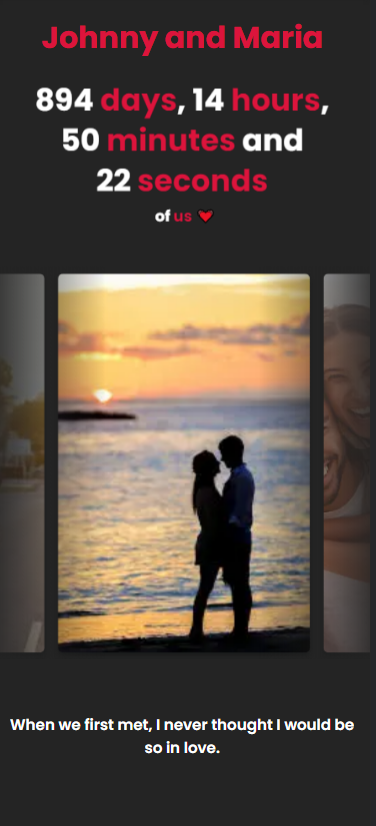
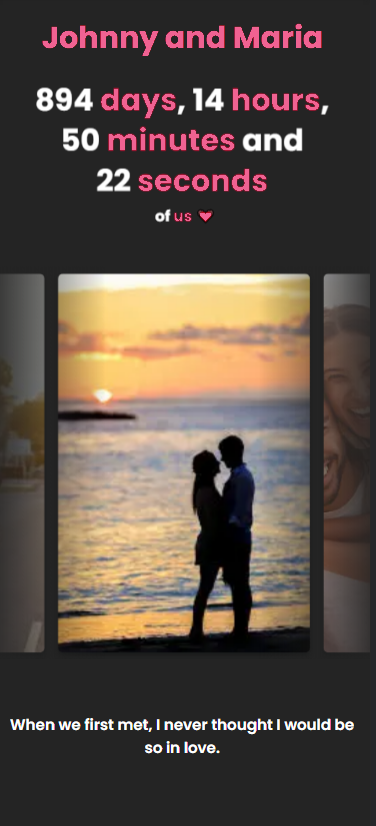
feat: Changes to the theme of the page, CTAs and subscribe page structure

diff --git a/src/app/(components)/HowItWorks/index.tsx b/src/app/(components)/HowItWorks/index.tsx
@@ -19,7 +19,7 @@ export function LandingPageHowItWorks() {
 					>
 						<ShinyBorder
 							className="w-full h-full text-white rounded-lg shadow-lg shadow-gray-800"
-							color={['#A07CFE', '#FE8FB5', '#FFBE7B']}
+							color={['#F48FB1', '#F06292', '#E682AB']}
 						>
 							<div className="w-full h-full flex flex-col items-center gap-4 p-4 pb-0 bg-gradient-to-b from-gray-500 to-gray-600 rounded-lg">
 								<h3 className="text-white text-center text-3xl font-bold capitalize">
@@ -43,7 +43,7 @@ export function LandingPageHowItWorks() {
 					>
 						<ShinyBorder
 							className="w-full h-full text-white rounded-lg shadow-lg shadow-gray-800"
-							color={['#A07CFE', '#FE8FB5', '#FFBE7B']}
+							color={['#F48FB1', '#F06292', '#E682AB']}
 						>
 							<div className="w-full h-full flex flex-col items-center gap-4 p-4 bg-gradient-to-b from-gray-500 to-gray-600 rounded-lg">
 								<h3 className="text-white text-center text-3xl font-bold capitalize">
@@ -67,7 +67,7 @@ export function LandingPageHowItWorks() {
 					>
 						<ShinyBorder
 							className="w-full h-full text-white rounded-lg shadow-lg shadow-gray-800"
-							color={['#A07CFE', '#FE8FB5', '#FFBE7B']}
+							color={['#F48FB1', '#F06292', '#E682AB']}
 						>
 							<div className="w-full h-full flex flex-col items-center gap-4 p-4 pb-0 bg-gradient-to-b from-gray-500 to-gray-600 rounded-lg">
 								<h3 className="text-white text-center text-3xl font-bold capitalize">
@@ -92,7 +92,7 @@ export function LandingPageHowItWorks() {
 					>
 						<ShinyBorder
 							className="w-full h-full text-white rounded-lg shadow-lg shadow-gray-800"
-							color={['#A07CFE', '#FE8FB5', '#FFBE7B']}
+							color={['#F48FB1', '#F06292', '#E682AB']}
 						>
 							<div className="relative w-full h-full flex flex-col items-center gap-4 p-4 bg-gradient-to-b from-gray-500 to-gray-600 rounded-lg">
 								<h3 className="text-white text-center text-3xl font-bold capitalize">

diff --git a/src/app/subscribe/(components)/form/index.tsx b/src/app/subscribe/(components)/form/index.tsx
@@ -91,7 +91,7 @@ export function SubscribeForm({ plan }: ISubscribeFormProps) {
 	return (
 		<FormProvider {...useFormReturn}>
 			<form
-				className="w-full flex flex-col gap-10 pb-4"
+				className="w-full flex flex-col gap-10 max-xl:gap-4 pb-4 -mt-4"
 				onSubmit={handleSubmit(handleOnSubmit)}
 			>
 				<SubscribeFormMainInfo plan={plan} />
@@ -112,23 +112,23 @@ export function SubscribeForm({ plan }: ISubscribeFormProps) {
 
 				{planIsLoveful && <SubscribeFormMilestones />}
 
-				<Button
+				<SubscribePageCouplePreview plan={plan} {...data} />
+
+				<button
 					type="submit"
-					className="mt-4 border-none bg-red-300 hover:bg-red-400 transition-all"
+					className="w-full xl:min-h-14 text-center text-lg rounded-md font-bold border-none p-4 transition-all capitalize text-white bg-red-200 shadow-glow shadow-red-200/80 hover:bg-red-400 disabled:opacity-50 disabled:shadow-none' lg:max-w-[33%]"
 					disabled={isSubmitting}
 				>
 					{isSubmitting ? (
-						<span className="flex items-center gap-4">
-							<Loading />
-							Creating your Loveloom...
+						<span className="w-full flex items-center justify-center text-lg gap-4">
+							<Loading className="w-fit" />
+							Creating your love page...
 						</span>
 					) : (
-						'Create your Loveloom'
+						'Create your love page'
 					)}
-				</Button>
+				</button>
 			</form>
-
-			<SubscribePageCouplePreview plan={plan} {...data} />
 		</FormProvider>
 	);
 }

diff --git a/src/app/(components)/Banner/index.tsx b/src/app/(components)/Banner/index.tsx
@@ -30,7 +30,7 @@ export async function LandingPageBanner() {
 			<div className="flex flex-col items-center mx-auto gap-8 xl:gap-16">
 				<BlurFade delay={0.3}>
 					<h2 className="w-full text-8xl max-xl:text-6xl max-2xl:text-7xl leading-5 text-center 2xl:text-start drop-shadow-md 2xl:mb-12">
-						<span className="max-2xl:block bg-clip-text text-transparent font-bold bg-gradient-to-b from-red-400 to-red-300 2xl:mb-14 pb-3">
+						<span className="max-2xl:block bg-clip-text text-transparent font-bold bg-gradient-to-b from-[#E682AB] to-[#FF7696] 2xl:mb-14 pb-3">
 							Few clicks, eternal gift
 						</span>
 					</h2>
@@ -52,7 +52,7 @@ export async function LandingPageBanner() {
 					<div className="w-full flex flex-col items-center gap-5">
 						<Link
 							href="/subscribe"
-							className="w-full xl:min-h-14 text-center text-xl rounded-md font-bold border-none px-6 py-5 transition-all text-white bg-red-200 shadow-glow shadow-red-200/80 hover:bg-red-400' lg:max-w-[33%]"
+							className="w-full xl:min-h-14 text-center text-xl rounded-md font-bold border-none px-6 py-5 transition-all capitalize text-white bg-red-200 shadow-glow shadow-red-200/80 hover:bg-red-400' lg:max-w-[33%]"
 						>
 							Design your page for free
 						</Link>

diff --git a/src/app/(components)/Pricing/index.tsx b/src/app/(components)/Pricing/index.tsx
@@ -85,7 +85,7 @@ export async function LandingPagePricing() {
 				<BlurFade className="w-full max-w-[400px]" delay={0.5} inView>
 					<ShinyBorder
 						className="w-full	 text-white rounded-lg shadow-lg shadow-gray-800"
-						color={['#A07CFE', '#FE8FB5', '#FFBE7B']}
+						color={['#F48FB1', '#F06292', '#E682AB']}
 					>
 						<ShinyText
 							className="w-max absolute top-0 left-1/2 -translate-y-1/2 -translate-x-1/2 rounded-full text-white font-bold uppercase bg-gray-500 shadow-md shadow-gray-800"
@@ -94,7 +94,7 @@ export async function LandingPagePricing() {
 							<ShinyBorder
 								className="text-sm text-white bg-transparent px-4 py-3"
 								borderRadius={9999}
-								color={['#A07CFE', '#FE8FB5', '#FFBE7B']}
+								color={['#F48FB1', '#F06292', '#E682AB']}
 							>
 								Popular
 							</ShinyBorder>
@@ -104,7 +104,7 @@ export async function LandingPagePricing() {
 							<ul className="flex flex-col gap-3">
 								<li className="flex gap-2 items-center">
 									<Check className="text-green-700 w-5 h-5 mb-1" />
-									<span>Lifetime access</span>
+									<span>Lasts forever</span>
 								</li>
 
 								<li className="flex gap-2 items-center">

diff --git a/src/app/subscribe/page.tsx b/src/app/subscribe/page.tsx
@@ -5,18 +5,18 @@ import { useState } from 'react';
 import { SubscribeForm } from './(components)/form';
 
 export default function Subscribe() {
-	const [plan, setPlan] = useState<'standard' | 'loveful'>('loveful');
+	const [plan, setPlan] = useState<'standard' | 'loveful'>('standard');
 
 	function handlePlanChange(plan: 'standard' | 'loveful') {
 		setPlan(plan);
 	}
 
 	return (
-		<main className="w-full flex flex-col items-center gap-36 max-xl:gap-12 pt-24 max-xl:pt-12 px-8 max-xl:px-2">
+		<main className="w-full flex flex-col items-center gap-36 max-xl:gap-12 pt-24 max-xl:pt-4 px-8 max-xl:px-2">
 			<div className="flex flex-col items-center gap-1 mx-auto">
 				<h1 className="text-2xl font-bold">Almost there!</h1>
 				<span className="text-sm font-light">
-					Fill out the form and get your own Loveloom!
+					Tell us your story to eternalize it!
 				</span>
 
 				<div className="flex justify-center gap-4 mt-4">

diff --git a/src/app/(components)/SecondCallToAction/index.tsx b/src/app/(components)/SecondCallToAction/index.tsx
@@ -38,7 +38,7 @@ export function LandingPageSecondCallToAction() {
 
 				<Link
 					href="/subscribe"
-					className="w-full flex justify-center items-center gap-3 xl:min-h-14 text-center text-xl rounded-md font-bold border-none px-4 py-5 transition-all text-white bg-red-200 shadow-glow shadow-red-200/80 hover:bg-red-400"
+					className="w-full flex justify-center items-center gap-3 xl:min-h-14 text-center text-lg rounded-md font-bold border-none px-4 py-5 transition-all text-white bg-red-200 shadow-glow shadow-red-200/80 hover:bg-red-400"
 				>
 					<HeartIcon className="fill-white" />
 					Design your page, free

diff --git a/src/app/(components)/Testimonials/index.tsx b/src/app/(components)/Testimonials/index.tsx
@@ -29,11 +29,7 @@ const reviews = [
 	},
 ];
 
-const couplePages = [
-	'/looveloom1.jpeg',
-	'/looveloom2.jpeg',
-	'/looveloom3.jpeg',
-];
+const couplePages = ['/looveloom1.png', '/looveloom2.png', '/looveloom3.png'];
 
 export function LandingPageTestimonials() {
 	return (
@@ -67,8 +63,8 @@ export function LandingPageTestimonials() {
 								src={couplePage}
 								className="rounded-md"
 								alt="Couple page"
-								width={400}
-								height={400}
+								width={300}
+								height={300}
 							/>
 						);
 					})}

diff --git a/tailwind.config.ts b/tailwind.config.ts
@@ -27,9 +27,12 @@ const config = {
 				red: {
 					'50': '#F8D1D5',
 					'100': '#F3B3B9',
-					'200': '#BE143C',
-					'300': '#DC143C',
-					'400': '#ff6464',
+					// '200': '#BE143C',
+					'200': '#E682AB',
+					// '300': '#DC143C',
+					'300': '#F06292',
+					// '400': '#ff6464',
+					'400': '#FF7696',
 					'500': '#B53D49',
 					'600': '#A22431',
 					'700': '#8E1C28',

diff --git a/src/app/subscribe/(components)/preview/index.tsx b/src/app/subscribe/(components)/preview/index.tsx
@@ -65,7 +65,7 @@ export function SubscribePageCouplePreview({
 	);
 
 	return (
-		<main className="w-full max-w-[450px] h-fit py-8 mx-4 bg-gray-800 rounded-md">
+		<main className="w-full max-w-[450px] h-fit py-8 bg-gray-800 rounded-md">
 			<span className="w-full block mx-auto mb-12 text-white font-bold text-sm text-center">
 				What your page will look like 👇
 			</span>

diff --git a/src/app/(components)/Pricing/card.tsx b/src/app/(components)/Pricing/card.tsx
@@ -45,7 +45,7 @@ export function PricingCard({
 				href="/subscribe"
 				className="w-full h-fit max-w-none xl:min-h-14 text-center xl:text-xl rounded-md font-bold border-none  px-8 py-4 text-white bg-red-200 shadow-glow shadow-red-200/80 uppercase mt-auto transition-all hover:opacity-70"
 			>
-				Get instant access
+				Gift your loved one
 			</Link>
 		</div>
 	);
